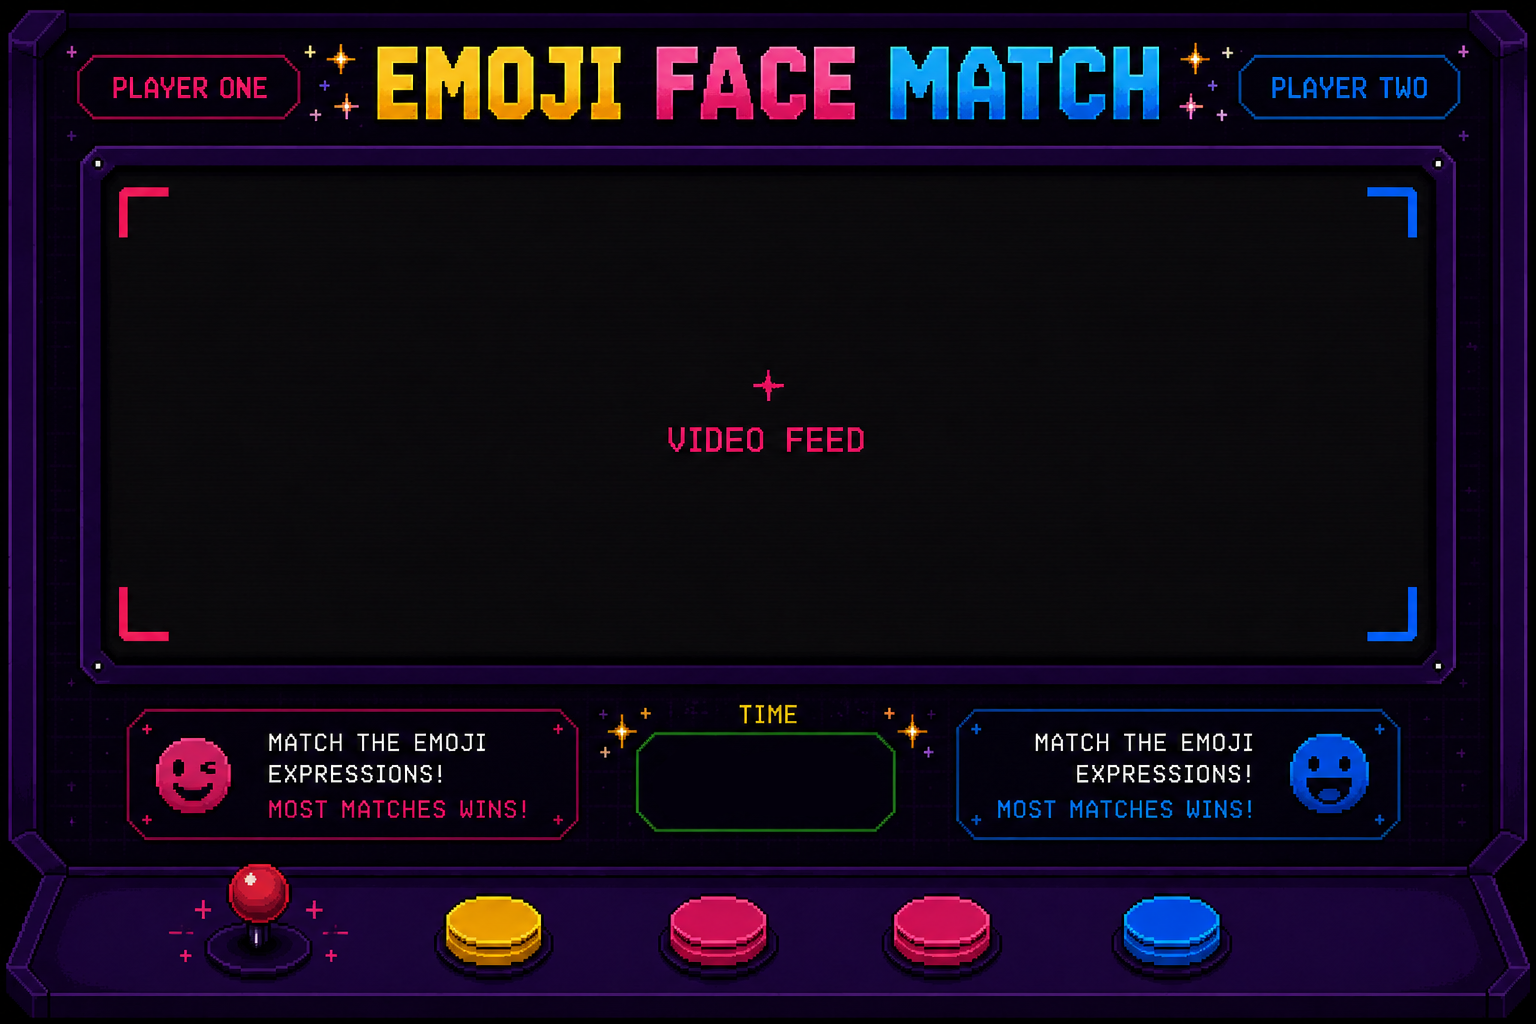
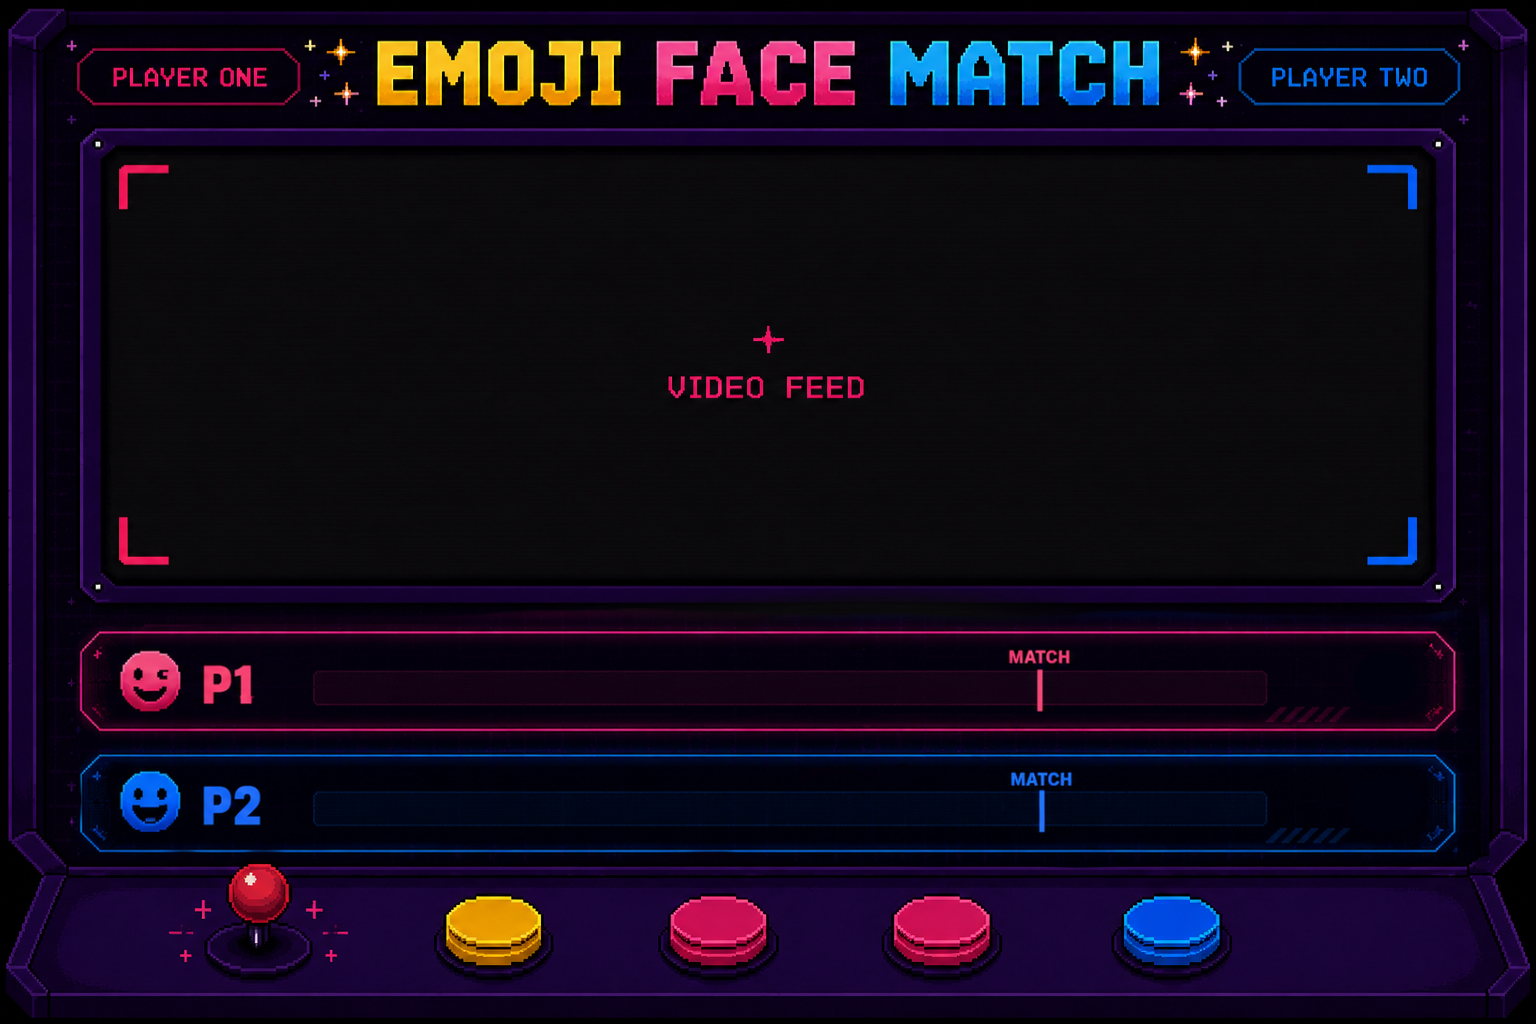
UI finished

Changed region(s): [[0.0312, 0.5, 0.9688, 0.8438], [0.0, 0.0, 1.0, 0.2188], [0.4375, 0.3438, 0.5625, 0.4375]]

diff --git a/app/ui/screens/emoji_face_match_screen.py b/app/ui/screens/emoji_face_match_screen.py
@@ -54,7 +54,7 @@ class EmojiFaceMatchScreen:
     countdown_ms = 3_000
     spawn_interval_ms = 1_700
     travel_ms = 3_000
-    target_progress = 0.72
+    target_progress = 0.74
 
     def __init__(self, manager: Any) -> None:
         self.manager = manager
@@ -67,6 +67,7 @@ class EmojiFaceMatchScreen:
         self.finished = False
         self.message = "CENTER FACES IN THE LANES"
         self.manual_override = False
+        self.emoji_images = {}
 
     def on_enter(self, **_: Any) -> None:
         config = self.manager.config
@@ -142,13 +143,7 @@ class EmojiFaceMatchScreen:
         else:
             surface.fill(theme.BACKGROUND)
 
-        pygame.draw.rect(surface, (31, 24, 28), pygame.Rect(0, 0, width, 104))
-        pygame.draw.rect(surface, (255, 96, 116), pygame.Rect(0, 104, width, 4))
-        draw_text(surface, "EMOJI FACE MATCH", fonts.title, theme.TEXT, (42, 22), max_width=width - 410)
-        draw_text(surface, self._clock_label(), fonts.card_title, (255, 96, 116), (width - 48, 34), anchor="topright")
-
-        top_h = max(232, int(height * 0.42))
-        camera_rect = pygame.Rect(42, 132, width - 84, top_h)
+        camera_rect = pygame.Rect(100, 115, 1080, 290)
         frame = self.manager.camera_service.latest_display_frame() if self.manager.camera_service is not None else None
         diagnostic = (
             self.manager.camera_service.diagnostic_message
@@ -181,7 +176,7 @@ class EmojiFaceMatchScreen:
 
         countdown = self._countdown_label()
         if countdown is not None:
-            draw_text(surface, countdown, fonts.masthead, (255, 96, 116), (width // 2, height // 2), anchor="center")
+            draw_text(surface, countdown, fonts.masthead, theme.WARNING, (width // 2, height // 2 - 120), anchor="center")
 
         draw_bottom_rule(pygame, surface, height - 44, width)
         help_text = "SPACE STARTS / ESC HOME"
@@ -192,20 +187,38 @@ class EmojiFaceMatchScreen:
 
     def _render_lane(self, pygame: Any, surface: Any, rect: Any, lane: EmojiLane, index: int, now_ms: int) -> None:
         assert self.fonts is not None
-        color = theme.PLAYER_COLORS[index % len(theme.PLAYER_COLORS)]
+        if index == 0:
+            color = (255, 60, 60)      # red for Player 1
+        else:
+            color = (0, 130, 255)      # blue for Player 2
         active = lane in self._active_lanes(max(0, self._play_elapsed_ms(now_ms)))
         border = color if lane.face is not None or self.manual_override else theme.BORDER
         fill = (38, 28, 34) if active else theme.SURFACE
-        draw_panel(pygame, surface, rect, fill=fill, border=border, width=2)
-        draw_text(surface, lane.name, self.fonts.body, theme.TEXT, (rect.left + 22, rect.top + 14), max_width=rect.width // 3)
-        draw_text(surface, f"{lane.zone.upper()} / STREAK {lane.streak}", self.fonts.small, color, (rect.left + 22, rect.bottom - 34))
+        if lane.zone == "p2":
+            streak_y = rect.bottom - 64
+        else:
+            streak_y = rect.bottom - 34
+
+        draw_text(
+            surface,
+            f"STREAK {lane.streak}",
+            self.fonts.small,
+            color,
+            (rect.centerx, streak_y),
+            anchor="center",
+        )
         self._draw_lane_score(pygame, surface, rect, lane, color, now_ms)
 
-        track = pygame.Rect(rect.left + 245, rect.top + 18, max(260, rect.width - 410), rect.height - 36)
+        track_y = rect.top + 25
+
+        if lane.zone == "p2":
+            track_y = rect.top - 10
+
+        track = pygame.Rect(rect.left + 245, track_y, max(260, rect.width - 410), rect.height - 36)   
+
         pygame.draw.line(surface, theme.DIM_BORDER, (track.left, track.centery), (track.right, track.centery), 2)
         target_x = track.left + int(track.width * self.target_progress)
-        pygame.draw.line(surface, (255, 96, 116), (target_x, track.top), (target_x, track.bottom), 4)
-        draw_text(surface, "MATCH", self.fonts.small, (255, 96, 116), (target_x, track.top - 2), anchor="midbottom")
+
         self._render_target_gate_fx(pygame, surface, track, lane, color, now_ms)
 
         for target in lane.targets:
@@ -222,13 +235,27 @@ class EmojiFaceMatchScreen:
                 if not target.hit:
                     pygame.draw.line(surface, fx_color, glyph_rect.topleft, glyph_rect.bottomright, 3)
                     pygame.draw.line(surface, fx_color, glyph_rect.topright, glyph_rect.bottomleft, 3)
-            pygame.draw.rect(surface, theme.SURFACE_DARK, glyph_rect, border_radius=8)
-            pygame.draw.rect(surface, trail_color if not target.scored else theme.TEXT_MUTED, glyph_rect, 2, border_radius=8)
-            draw_text(surface, expression_glyph(target.expression), self.fonts.body, theme.TEXT, glyph_rect.center, anchor="center")
 
-        feedback_color = theme.ACCENT if lane.feedback.startswith("HIT") else theme.TEXT_MUTED
-        if lane.feedback_until_ms > now_ms:
-            draw_text(surface, lane.feedback, self.fonts.small, feedback_color, (rect.right - 150, rect.bottom - 34), anchor="topright")
+            emoji_filename = {
+                "neutral": "neutral.png",
+                "smile": "smile.png",
+                "surprised": "surprised.png",
+                "tongue_out": "tongue.png",
+                "wink": "wink.png",
+                "look_left": "left.png",
+                "look_right": "right.png",
+            }.get(target.expression)
+
+            emoji_image = scaled_asset_image(pygame, emoji_filename, (48, 48)) if emoji_filename else None
+
+            if emoji_image is not None:
+                emoji_rect = emoji_image.get_rect(center=glyph_rect.center)
+                surface.blit(emoji_image, emoji_rect)
+            else:
+                draw_text(surface, expression_glyph(target.expression), self.fonts.body, theme.TEXT, glyph_rect.center, anchor="center")
+            feedback_color = theme.ACCENT if lane.feedback.startswith("HIT") else theme.TEXT_MUTED
+            if lane.feedback_until_ms > now_ms:
+                draw_text(surface, lane.feedback, self.fonts.small, feedback_color, (rect.right - 150, rect.bottom - 34), anchor="topright")
 
     def _sync_faces(self) -> None:
         faces = self._faces()
@@ -337,7 +364,10 @@ class EmojiFaceMatchScreen:
             size = (max(1, int(size[0] * fit)), max(1, int(size[1] * fit)))
         if size != image.get_size():
             image = pygame.transform.smoothscale(image, size)
-        score_rect = image.get_rect(midright=(rect.right - 24, rect.centery))
+        if lane.zone == "p2":
+            score_rect = image.get_rect(midright=(rect.right - 72, rect.centery - 34))
+        else:
+            score_rect = image.get_rect(midright=(rect.right - 72, rect.centery))
         surface.blit(image, score_rect)
         if lane.streak >= 2:
             draw_text(surface, f"x{lane.streak}", self.fonts.small, score_color, (score_rect.right, score_rect.top - 14), anchor="topright")

diff --git a/app/ui/screens/sixty_seven_screen.py b/app/ui/screens/sixty_seven_screen.py
@@ -135,13 +135,8 @@ class SixtySevenScreen:
             surface.blit(bg, (0, 0))
         else:
             surface.fill(theme.BACKGROUND)
-
-        pygame.draw.rect(surface, (31, 24, 24), pygame.Rect(0, 0, width, 104))
-        pygame.draw.rect(surface, theme.WARNING, pygame.Rect(0, 104, width, 4))
-        draw_text(surface, "67 CHALLENGE", fonts.title, theme.TEXT, (42, 22), max_width=width - 360)
-        draw_text(surface, self._clock_label(), fonts.card_title, theme.WARNING, (width - 48, 34), anchor="topright")
-
-        camera_rect = pygame.Rect(42, 132, width - 84, max(260, height - 332))
+        
+        camera_rect = pygame.Rect(90, 135, 1100, 330)
         frame = self.manager.camera_service.latest_display_frame() if self.manager.camera_service is not None else None
         diagnostic = (
             self.manager.camera_service.diagnostic_message
@@ -178,12 +173,11 @@ class SixtySevenScreen:
         panel_y = height - 174
         lane_w = (width - 108 - 24 * (len(self.lanes) - 1)) // len(self.lanes)
         for index, lane in enumerate(self.lanes):
-            rect = pygame.Rect(42 + index * (lane_w + 24), panel_y, lane_w, 104)
+            if index == 0:
+                rect = pygame.Rect(172, height - 210, 220, 80)
+            else:
+                rect = pygame.Rect(width - 390, height - 210, 220, 80)
             color = theme.PLAYER_COLORS[index % len(theme.PLAYER_COLORS)]
-            fill = (52, 44, 29) if lane.pulse_until_ms > now_ms else theme.SURFACE
-            draw_panel(pygame, surface, rect, fill=fill, border=color, width=2)
-            draw_text(surface, lane.name, fonts.body, theme.TEXT, (rect.left + 24, rect.top + 18), max_width=rect.width - 160)
-            draw_text(surface, lane.zone.upper(), fonts.small, color, (rect.left + 24, rect.bottom - 34))
             self._draw_score(pygame, surface, rect, lane, fonts)
 
         if self._countdown_label():
@@ -251,7 +245,7 @@ class SixtySevenScreen:
             scaled_height = int(scaled_height * fit)
         if scaled_width != image.get_width() or scaled_height != image.get_height():
             image = pygame.transform.smoothscale(image, (max(1, scaled_width), max(1, scaled_height)))
-        score_rect = image.get_rect(midright=(rect.right - 28, rect.centery))
+        score_rect = image.get_rect(center=rect.center)
         shadow = image.copy()
         shadow.fill((42, 14, 16), special_flags=pygame.BLEND_RGB_MULT)
         surface.blit(shadow, score_rect.move(3, 3))
@@ -311,7 +305,7 @@ class SixtySevenScreen:
                     "label": label,
                     "rank": score.rank,
                     "winner": score_value == high_score,
-                    "ai_job_ids": [],
+                    "ai_job_ids": ai_job_ids,
                 }
             )
         self.manager.leaderboard_service.complete_session(

diff --git a/app/ui/screens/score_reveal_screen.py b/app/ui/screens/score_reveal_screen.py
@@ -285,13 +285,13 @@ class ScoreRevealScreen:
         panel_w = min(920, width - 96)
         panel_x = (width - panel_w) // 2
         row_h = 132 if any(row.get("crop_bgr") is not None for row in rows) else 104
-        start_y = 174
+        start_y = 260
         for index, row in enumerate(rows):
-            rect = pygame.Rect(panel_x, start_y + index * (row_h + 24), panel_w, row_h)
-            color = theme.PLAYER_COLORS[index % len(theme.PLAYER_COLORS)]
+            rect = pygame.Rect(panel_x, start_y + index * row_h, panel_w, row_h)
+            color = (0, 130, 255) if index == 0 else (255, 60, 160)
             border = theme.WARNING if row.get("winner") else color
             self._draw_winner_fx(pygame, surface, rect, border, active=bool(row.get("winner")))
-            draw_panel(pygame, surface, rect, fill=theme.SURFACE, border=border, width=2)
+            draw_panel(pygame, surface, rect, fill=(20, 45, 95), border=border, width=2)
             crop_rect = pygame.Rect(rect.left + 18, rect.top + 14, 96, rect.height - 28)
             if row.get("crop_bgr") is not None:
                 self._draw_crop(pygame, surface, crop_rect, row["crop_bgr"], color)
@@ -301,7 +301,17 @@ class ScoreRevealScreen:
             draw_text(surface, f"P{index + 1}", fonts.body, border, (rect.left + 26, rect.top + 18))
             self._draw_row_details(surface, row, fonts, text_x, rect)
             score = "--" if row.get("score") is None else str(row["score"])
+            if row.get("winner"):
+                draw_text(
+                    surface,
+                    "WINNER",
+                    fonts.body,
+                    theme.WARNING,
+                    (rect.centerx, rect.centery - 28),
+                    anchor="center",
+                )
             self._draw_score_pop(pygame, surface, score, fonts.card_title, theme.TEXT, (rect.right - 50, rect.centery), active=bool(row.get("winner")))
+
 
     def _render_mog_mirror_portraits(
         self,
@@ -358,10 +368,10 @@ class ScoreRevealScreen:
             draw_text(
                 surface,
                 label_text,
-                fonts.small,
-                theme.TEXT_MUTED,
-                (text_x, rect.bottom - 38),
-                max_width=rect.width - (text_x - rect.left) - 230,
+                fonts.body,
+                theme.TEXT,
+                (rect.centerx, rect.centery),
+                anchor="center",
             )
 
     def _draw_crop(

diff --git a/app/ui/renderers/hand_overlay_renderer.py b/app/ui/renderers/hand_overlay_renderer.py
@@ -68,7 +68,7 @@ class HandOverlayRenderer:
             pygame.draw.rect(surface, (60, 32, 36), rect, 4)
             draw_text(surface, "STALE TRACKING", self.fonts.small, theme.ERROR, (rect.left + 16, rect.bottom - 34))
         elif not hands:
-            draw_text(surface, "SHOW HANDS", self.fonts.small, dim_green, (rect.centerx, rect.centery), anchor="center")
+            draw_text(surface, "SHOW HANDS", self.fonts.title, theme.WARNING, (rect.centerx, rect.centery), anchor="center")
 
     def _to_screen(
         self,
